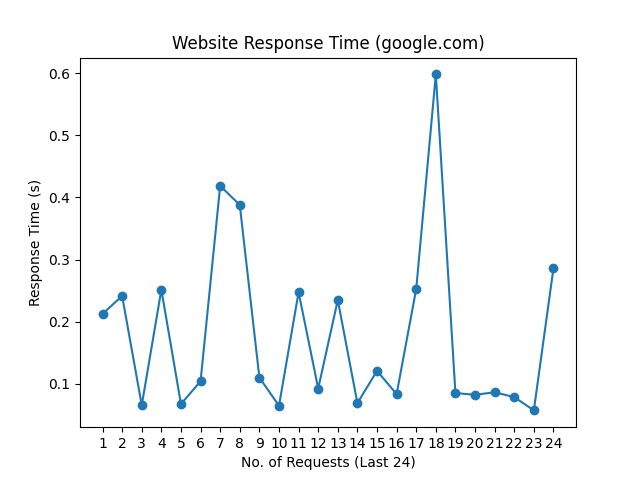
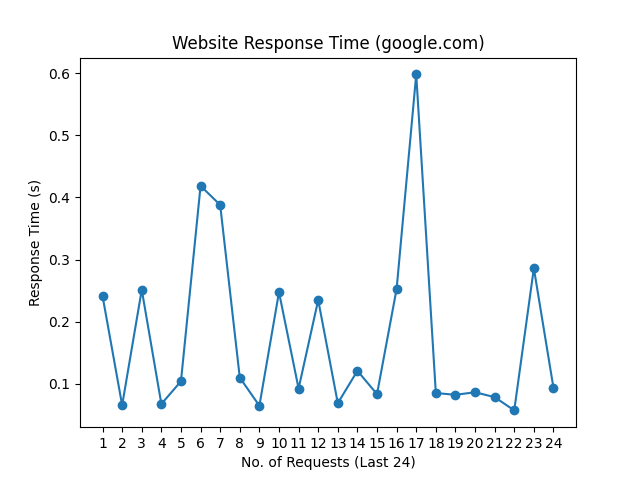
update README.md, history and graph

Changed region(s): [[0.1562, 0.125, 0.875, 0.875]]

diff --git a/README.md b/README.md
@@ -1,10 +1,10 @@
 # Web Monitoring
 
-Last Checked: 10/10/2023 08:59
+Last Checked: 11/10/2023 08:59
 
 | Website | Response Time (s) | Status | Avg Uptime (%) |
 |---------|-------------------|--------|----------------|
 | www.thiswebsiteisdown.net | 0 <br> <img src="graph/thiswebsiteisdown.net.png" alt="Graph" width="200" height="200">  | ❌ Down | 0.00 |
-| www.netflix.com | 0.841073 <br> <img src="graph/netflix.com.png" alt="Graph" width="200" height="200">  | ✅ Up | 100.00 |
-| www.google.com | 0.285958 <br> <img src="graph/google.com.png" alt="Graph" width="200" height="200">  | ✅ Up | 100.00 |
-| www.facebook.com | 0.585973 <br> <img src="graph/facebook.com.png" alt="Graph" width="200" height="200">  | ✅ Up | 100.00 |
+| www.netflix.com | 0.874329 <br> <img src="graph/netflix.com.png" alt="Graph" width="200" height="200">  | ✅ Up | 100.00 |
+| www.google.com | 0.093639 <br> <img src="graph/google.com.png" alt="Graph" width="200" height="200">  | ✅ Up | 100.00 |
+| www.facebook.com | 0.515817 <br> <img src="graph/facebook.com.png" alt="Graph" width="200" height="200">  | ✅ Up | 100.00 |
